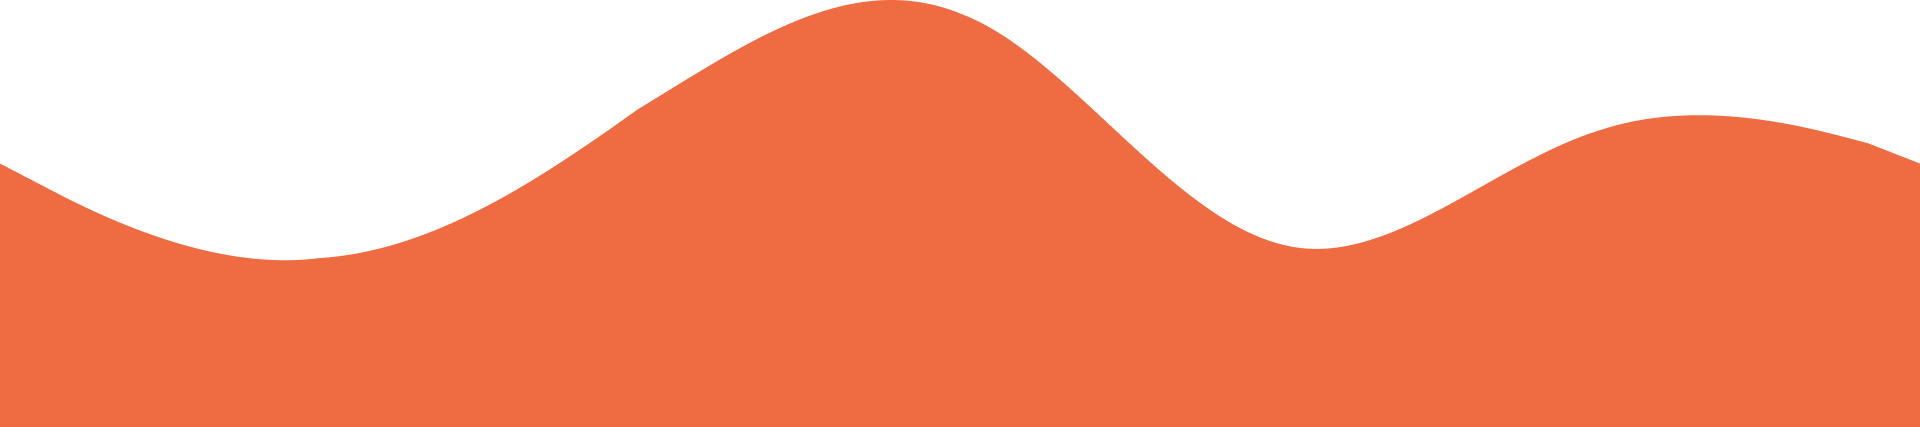
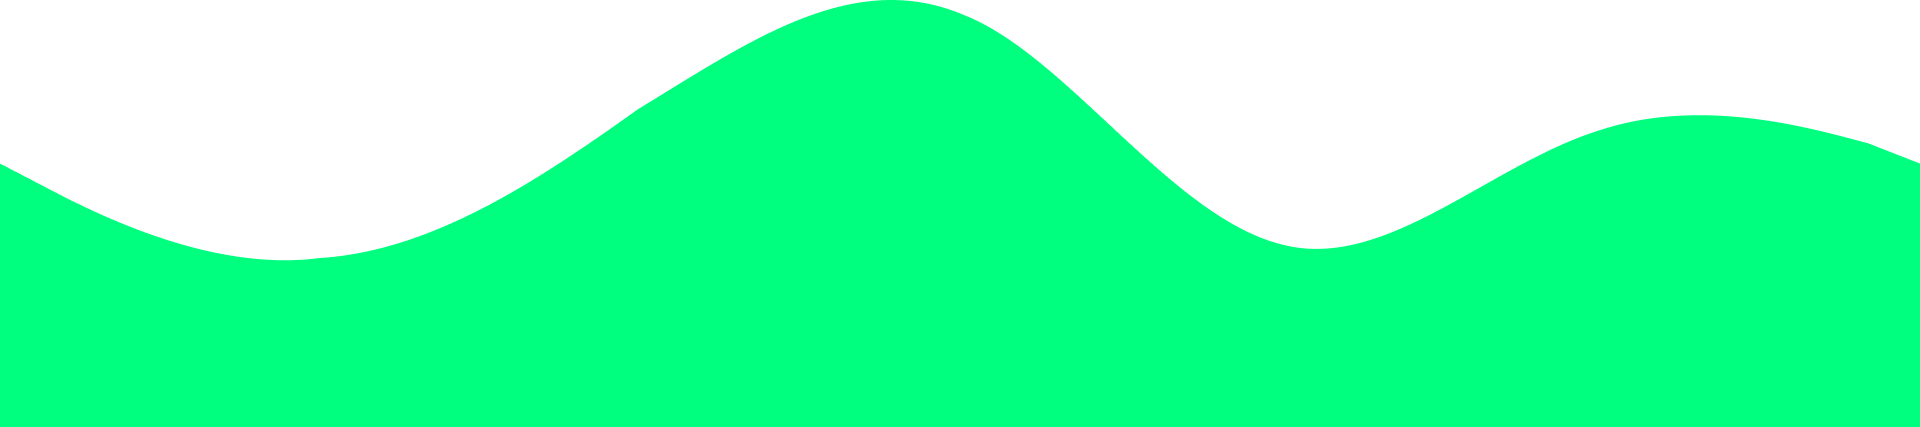
- added footer section to homepage

diff --git a/client/containers/home-footer/style.module.scss b/client/containers/home-footer/style.module.scss
@@ -1,0 +1,42 @@
+.footer{
+    width: 100%;
+    min-height: 100vh;
+    background: #00FF7F;
+    display: grid;
+    place-items: center;
+    scroll-snap-align: start;
+    position: relative;
+
+    &__container{
+        display: flex;
+        flex-direction: column;
+        align-items: center;
+        justify-content: center;
+        gap: 4rem;
+        &__text{
+            display: grid;
+            place-items: center;
+            gap: 2rem;
+            & h1{
+                font-size: 7rem;
+                color: white;
+            }
+            & p{
+                font-size: 2rem;
+                color: rgba(0, 0, 0, 0.31);
+                font-weight: bolder;
+            }
+        }
+    }
+
+    &__navigate{
+        position: absolute;
+        font-size: 2rem;
+        color: rgba(0, 0, 0, 0.31);
+        bottom: 3rem;
+        text-decoration: none;
+        &:hover{
+            font-weight: bolder;
+        }
+    }
+}

diff --git a/client/containers/home-footer/index.tsx b/client/containers/home-footer/index.tsx
@@ -1,0 +1,23 @@
+import Image from "next/image"
+import styles from "./style.module.scss"
+import logo from "@/assets/png/logobigger.png"
+
+
+const HomeFooter = () => {
+
+
+    return(
+        <section className={styles.footer}>
+            <div className={styles.footer__container}>
+                <Image height={150} width={150} src={logo} alt="logo"/>
+                <div className={styles.footer__container__text}>
+                    <h1>The Store</h1>
+                    <p>Designed and Developed by @Merto</p>
+                </div>
+            </div>
+            <a href="#welcome" className={styles.footer__navigate}>Back to Top</a>
+        </section>
+    )
+}
+
+export default HomeFooter

diff --git a/client/app/page.tsx b/client/app/page.tsx
@@ -1,5 +1,6 @@
 import styles from "./style.module.scss"
 import HomeCategories from "@/containers/home-categories";
+import HomeFooter from "@/containers/home-footer";
 import HomeTestimonial from "@/containers/home-testimonial";
 import HomeWelcome from "@/containers/home-welcome";
 
@@ -12,6 +13,7 @@ export default function Home() {
      <HomeWelcome></HomeWelcome>
      <HomeTestimonial></HomeTestimonial>
      <HomeCategories></HomeCategories>
+     <HomeFooter></HomeFooter>
     </main>
   )
 }

diff --git a/client/containers/home-welcome/index.tsx b/client/containers/home-welcome/index.tsx
@@ -5,7 +5,7 @@ import styles from "./style.module.scss"
 const HomeWelcome = () => {
 
     return(
-        <section className={styles.welcome}>
+        <section id='welcome' className={styles.welcome}>
             <Header></Header>
             <div className={styles.welcome__introduction}>
                 <div className={styles.welcome__introduction__brand}>
